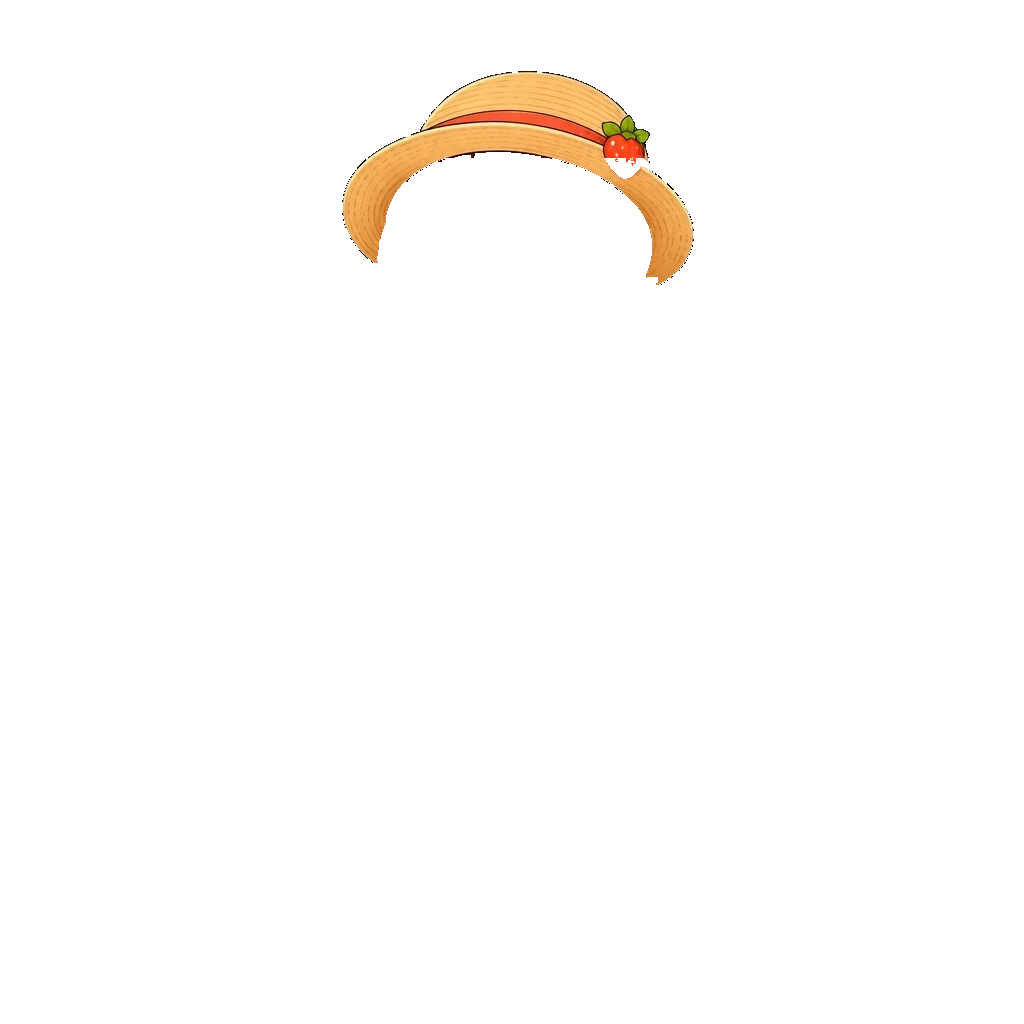
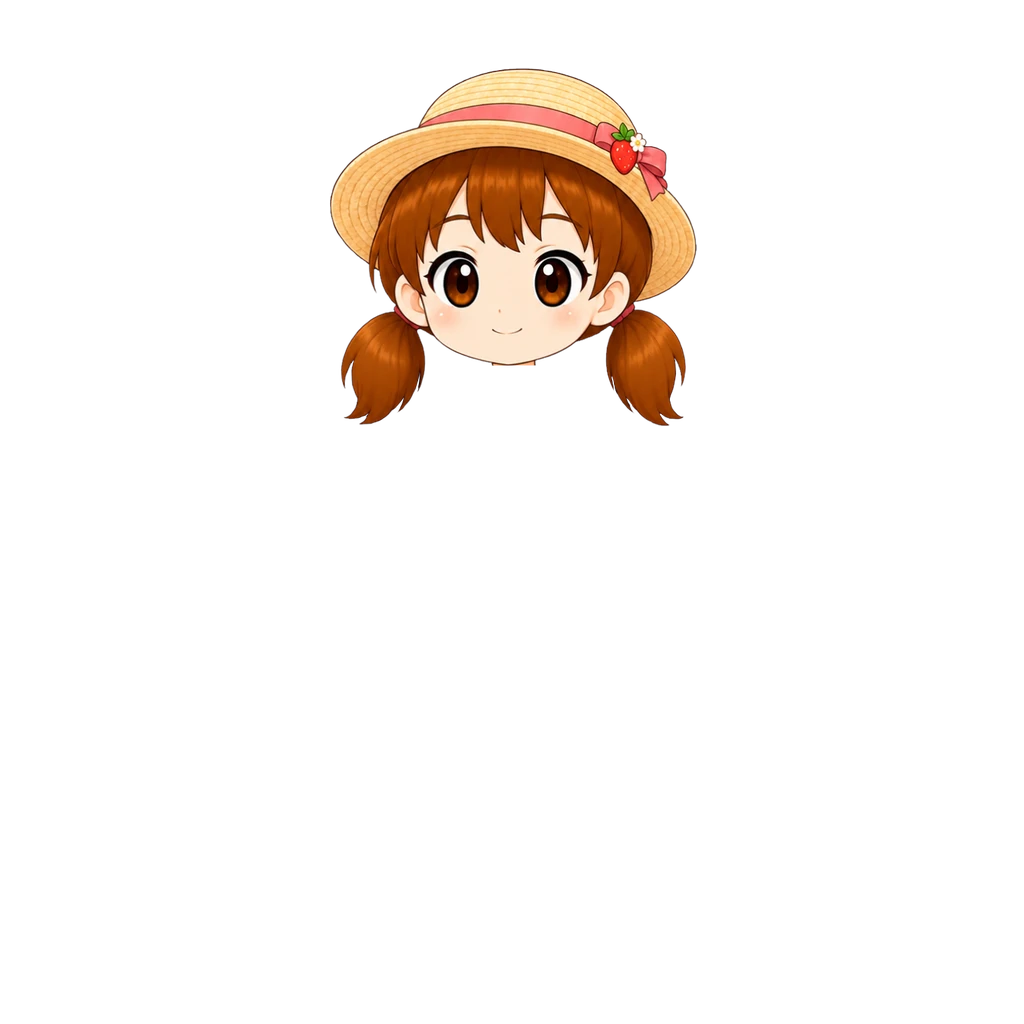
여아 딸기 밀짚모자 새 원화로 교체 (#871)
모자+얼굴·양갈래 한 장 원화를 얼굴 템플릿 매칭으로 배율 0.68 에 맞추고 hidesHead 로 여아 기본 머리를 대신한다. img ?v=4.

Claude-Session: https://claude.ai/code/session_018maNuYqDfFyRSe9uKpZhPR

Changed region(s): [[0.3125, 0.0625, 0.6875, 0.4375]]

diff --git a/src/data/avatarEquipment.js b/src/data/avatarEquipment.js
@@ -215,7 +215,10 @@ export const AVATAR_CATALOG = [
   /* 딸기 밀짚모자 — 해적 모자와 같은 방식(쓰고 있는 머리 그림 → 얼굴 상자로 맞춤).
      챙이 이마를 덮어 앞머리가 딸려 오므로 머리카락색·살색을 걸러 냈고,
      그래도 남는 얇은 머리 가닥은 열기 연산(침식→팽창)으로 잘라 냈다. */
-  { id: "hat_picnic",     slot: "hat",   label: "딸기 밀짚모자", emoji: "👒", price:DECOR_PRICE.rare, rarity: "rare", theme: "picnic", forGender: "girl", img: "assets/avatar/hat/picnic-hat-girl.webp?v=3", thumb: "assets/avatar/thumb/hat_picnic.webp" },
+  /* [2026-10-04] 딸기 밀짚모자 새 원화로 교체 — 밀짚모자(딸기 리본) + 얼굴·양갈래 머리 한 장(사용자 원화 541×526). 위 설명은 옛 판 기록.
+     들꽃 머리띠와 같은 방식(hidesHead) — 얼굴(눈~입) 템플릿 매칭(일치 0.920)으로 배율 0.6800000000000002, 원점 (329,68). 아래는 자르지 않음.
+     탑재 상자 (329,68,697,426). img ?v=4. */
+  { id: "hat_picnic",     slot: "hat",   label: "딸기 밀짚모자", emoji: "👒", price:DECOR_PRICE.rare, rarity: "rare", theme: "picnic", forGender: "girl", hidesHead: true, img: "assets/avatar/hat/picnic-hat-girl.webp?v=4", thumb: "assets/avatar/thumb/hat_picnic.webp" },
   { id: "hat_pirate",     slot: "hat",   label: "꼬마해적 모자",   emoji: "🏴☠", price:DECOR_PRICE.epic, rarity: "epic", theme: "pirate", forGender: "girl", img: "assets/avatar/hat/pirate-hat-girl.webp?v=3", thumb: "assets/avatar/thumb/hat_pirate.webp" },
   /* 남아 사파리 모자 [2026-10-02] — 모자+얼굴 한 장(사용자 원화)이라 hidesHead: 쓰면 머리카락 머리 장이 빠지고
      민머리 위에 얹힌다(베이스 v10 구조). 얼굴(눈~입) 템플릿 매칭으로 맞춤(배율 0.4065 · 일치 0.970).

diff --git a/art-src/README.md b/art-src/README.md
@@ -376,7 +376,7 @@ getBoundingClientRect로 재서 정한다. 2026-08-05 점검에서 이 기준을
 | picnic-girl-src.webp | **딸기 소풍 옷 원화 여아 — 새 판 (사용자 원화 2026-10-02, 이전 '입은 전신 그림' 판 교체)**. 388×447 투명 배경, 옷만 오려 낸 그림 — 분홍 깅엄 짧은 재킷, 흰 둥근 깃 블라우스·분홍 리본·금 단추, 분홍 반바지(흰 단). 맨 위에 목이 그려져 있다 → 원화 목 외곽선 중심 x198.5 를 여아 목 중심 x512.5 에, 원화 y14 를 y370 에 맞추고 목 폭(64→45px)으로 배율 0.70. 원화 목 살과 외곽선은 y2~14 에서 페이드. 흰 수영복 0, 조각 1개. 탑재 상자 (374,360,646,673) · img ?v=4 | avatar/top/picnic-outfit-girl.webp · thumb/top_picnic.webp |
 | magic-girl-src.webp | **별빛 마법사 옷 원화 여아 — 새 판 (사용자 원화 2026-10-02, 이전 판 교체)**. 512×553 투명 배경, 보라 후드 망토(금 테두리·별 브로치) + 연보라 원피스·초승달 허리띠·별 무늬 보라 치마, 소매 끝에 치마를 잡은 손까지 그려져 있다. 맨 위(원화 y0~16)에 베이스 턱 아래 곡선이 함께 그려져 있어 보라·금색이 아닌 픽셀을 지웠다. 후드 사이 목 중심 x255.5 를 여아 목 중심 x512.5 에, 원화 턱선 y14 를 여아 턱선 y361 에 맞추고 배율 0.62 — 원화 손이 아바타 손 자리(x357~417·y560~658)를 덮고 그 아래는 치마가 가려 손이 두 쌍으로 안 보인다(손을 지우면 손목이 잘려 보여 살렸다). 목 살은 턱선 아래 20px 동안 0→1 페이드. 흰 수영복 비침 0, 조각 1개. 탑재 상자 (354,353,671,695) · ?v=4 **[2026-10-02 보정]** 사용자 요청으로 옷에 그려진 손만 보이게 — 이 옷을 입으면 손을 뺀 몸 base/body-girl-nohands.webp 를 쓴다(카탈로그 bodyImgGirl). body-girl ?v=13 에서 소매가 팔을 다 덮는 줄(왼 y486·오른 y480)부터 아래의 양팔 덩어리와 손가락 조각(왼 x≤414·오른 x≥598)을 지워 만들었다 — **body-girl 을 바꾸면 이 파일도 다시 만들어야 한다** **[2026-10-02 조정]** 사용자 요청으로 위치는 그대로, 배율 0.62 → 0.6577(×1.04×1.02). 탑재 상자 (344,353,681,716) · img ?v=5, 손을 뺀 몸도 다시 만들어 ?v=2(소매가 팔을 덮는 줄 양쪽 y470) **[2026-10-02 재조정]** 배율 0.6577 → 0.698(위치 그대로). 탑재 상자 (334,353,691,737) · img ?v=6, 손을 뺀 몸 ?v=3 | avatar/top/magic-outfit-girl.webp · thumb/top_magic.webp |
 | pirate-girl-outfit-src.webp | **해적 옷 원화 여아 — 새 판 (사용자 원화 2026-10-02, 이전 판 교체)**. 416×485 투명 배경, 크림 퍼프 블라우스(둥근 깃·주황 리본·금단추) + 주황 허리띠를 맨 남색 반바지 한 벌. 위쪽에 목(턱 없음)이 함께 그려져 있다. 원화 목 외곽선 x177.5~240.5(폭 63, 중심 209)를 여아 목 중심 x512.5 에, 곧은 목선이 끝나는 원화 y15 를 여아 y372 에 맞추고 배율 0.70(목 폭이 같아지는 값 · 흰 수영복도 이 값부터 0). 목 살(r−b>70)과 목 옆선은 원화 y4→20 동안 0→1 페이드. 조각 1개. 탑재 상자 (366,362,657,702) · imgGirl ?v=4 **[2026-10-02 수정판]** 같은 크기의 사용자 수정판으로 덮어씀 — 반바지 밑단 아래(원화 y320~470)가 조금 늘었다. 같은 탑재값, 탑재 상자 (366,362,657,702) · imgGirl ?v=5 | avatar/top/pirate-outfit-girl.webp · thumb/top_pirate-girl.webp |
-| picnic-girl-hat-worn-src.webp | **딸기 밀짚모자 원화 여아 (사용자 원화 2026-08-20)** — 베이스 v7 여아가 **쓰고 있는 머리 그림**(557×565, 투명). 밀짚모자 + 빨간 띠 + 딸기. 얼굴 상자로 맞춤(배율 0.6317) · 탑재 상자 (342,71)-(693,284) | avatar/hat/picnic-hat-girl.webp |
+| picnic-girl-hat-worn-src.webp | **딸기 밀짚모자 원화 여아 — 새 판 (사용자 원화 2026-10-04, 이전 판 교체)** — 541×526 투명 배경, 밀짚모자(딸기 리본) + 얼굴·양갈래 머리 한 장. hidesHead 로 여아 기본 머리를 대신한다. 얼굴 템플릿 매칭(일치 0.920)으로 배율 0.6800000000000002·원점 (329,68), 아래는 자르지 않음. 탑재 상자 (329,68,697,426) · img ?v=4 | avatar/hat/picnic-hat-girl.webp |
 | picnic-girl-set-worn-src.webp | **딸기 소풍 세트 전신 그림 여아 (사용자 원화 2026-08-20)** — 860×1829, 알파가 머리 부분만 살아 있어서 **RGB의 검정 배경을 흘려 지워** 썼다. 여기서 신발(발목 아래)만 떼어냈다. 바구니는 손에 가려 조각나서 못 썼다 | **(넣었다가 상점에서 뺌 2026-08-20)** — 그림은 avatar/shoes/picnic-shoes-girl.webp 에 그대로 있다 |
 | pirate-girl-hat-worn-src.webp | **해적 모자 원화 여아 (사용자 원화 2026-08-20)** — 베이스 v7 여아가 **쓰고 있는 머리 그림**(664×592, 투명). 남색 삼각모 + 주황 테두리 + 불가사리. 얼굴 상자로 맞춤(배율 0.6336) · 탑재 상자 (313,58)-(723,329) | avatar/hat/pirate-hat-girl.webp |
 | safari-boy-outfit-src.webp | **사파리 옷 원화 남아 v2 (사용자 원화 2026-10-02)** — 493×594, 투명 배경, **옷만 오려 낸 그림**(알파 상자 (30,36)-(462,558)). 초록 긴소매(팔꿈치까지 걷음) 티셔츠 + 카키 카고 조끼 + 카키 카고 반바지. 예전 판(크림 셔츠 + 탄색 조끼)을 대체했고 규칙 6에 따라 같은 이름으로 덮어썼다. **목 살 떼기** — 원화 깃 위로 목·쇄골 살이 그려져 있어, 가장 큰 살색 덩어리의 열 범위에서 초록 깃의 위끝을 4차 곡선으로 매끈하게 이은 선 위를 전부 지우고 그 자리에 2px 짙은 갈색(58,44,34) 깃선을 다시 그렸다 — 베이스의 목이 그대로 보인다. **맞춤** — 베이스 v9 남아 기준, 배율·가로배·위치를 격자로 훑어 "안 가려진 흰 속옷×3 + 안 가려진 어깨(y420~540) + 목 살 덮음 + 몸 밖 불룩×0.5"가 최소인 값: 배율 **0.65** · 가로 **1.02배** · 위끝 **y402** · 가로 중심 **515** → 탑재 상자 (372,402)-(658,733). 소매 끝이 팔꿈치(y≈560), 반바지 끝이 허벅지 가운데. **가랑이 V 메움** — y640~715 · x480~550 에서 "베이스 불투명 + 옷 알파<250" 116px 을 반바지 색 (124,114,74) 으로 채웠다(흰 속옷이 비치던 자리). 자홍 배경 검사: 연결 조각 1 · 안쪽 구멍 0. **[사용자 확정 2026-10-02] 격자로 보며 미세 조정** — 3px 내림 → 2% 키움 → 1px 올림 → 배율 **0.663** · 가로 1.02배 · 위끝 **y404** · 중심 515 → 탑재 상자 **(369,404)-(661,741)**. 가랑이 메움은 같은 규칙으로 64px. 몸통 쪽 안 가려진 속옷 1px. 경로 ?v=6 | avatar/top/safari-outfit-boy.webp · thumb/top_vest.webp |
